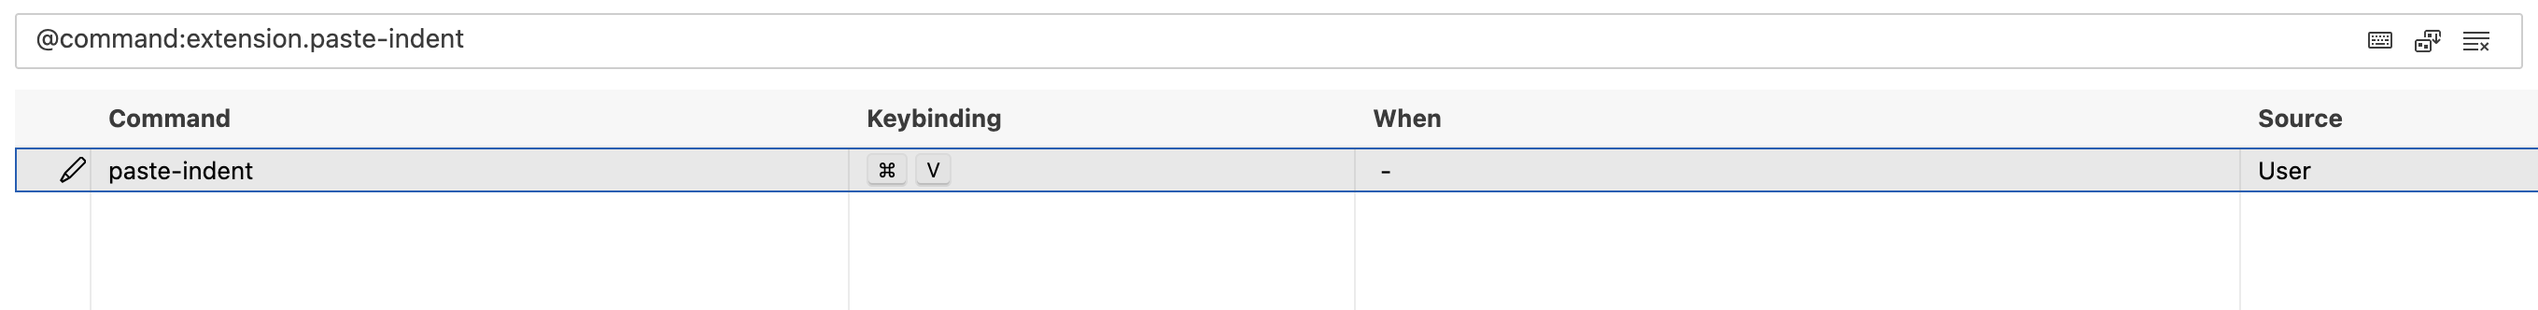
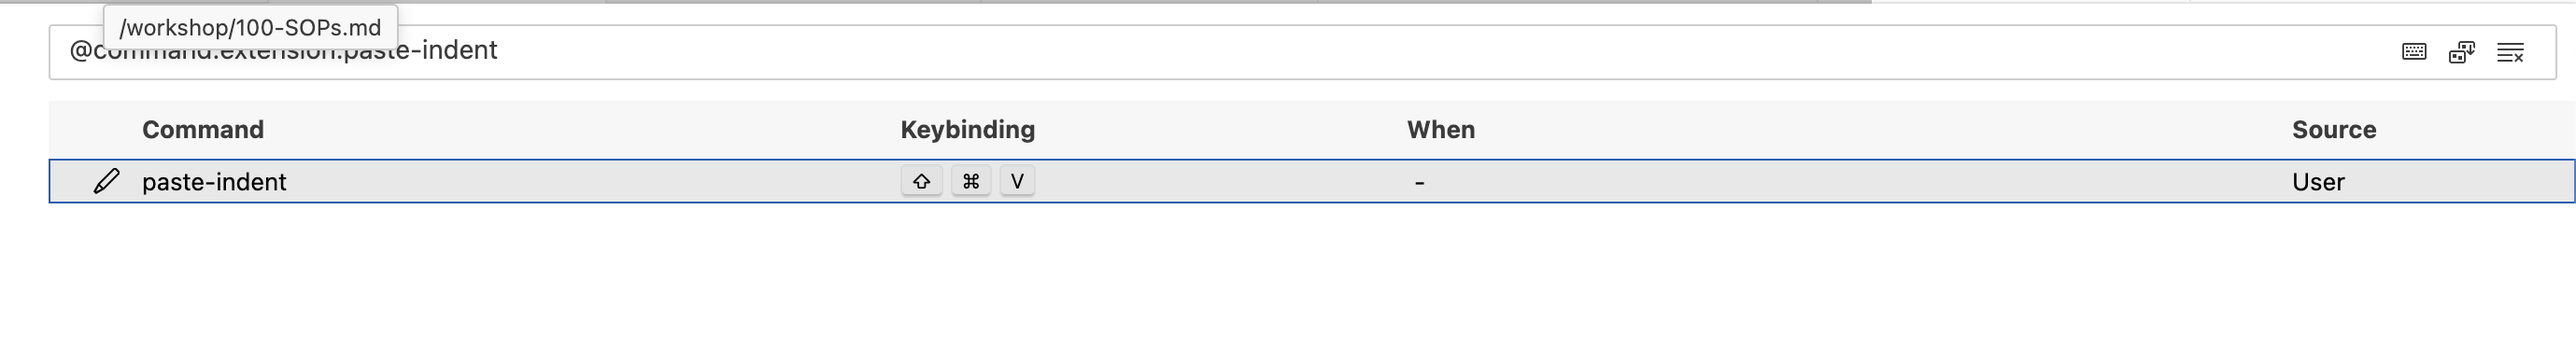
yaml-tip

Changed region(s): [[0.0, 0.3313, 1.0, 0.6325], [0.0, 0.0, 1.0, 0.2108], [0.0, 0.2108, 0.0309, 0.241]]

diff --git a/010-Env-Setup.md b/010-Env-Setup.md
@@ -49,11 +49,13 @@ To enhance the workshop experience, we recommend installing the Paste and Indent
 
    ![vscode extension install](./img/vscode_keybinding.png)
 
-1. When the key binding dialog comes up, press the paste shortcut on your keyboard `CMD+V`
+1. When the key binding dialog comes up, type the following on your keyboard `CMD+SHIFT+V`
 
 1. You should now see the new keybinding
 
    ![vscode extension install](./img/vscode_keybinding2.png)
+
+   > Tip: When copying any yaml content, make sure you paste it in the right location using your shortcut `CMD+SHIFT+V` to make sure indentation is respected. It will save alot of hassle! 
 
 ## 3. Installing Solace Agent Mesh
 
